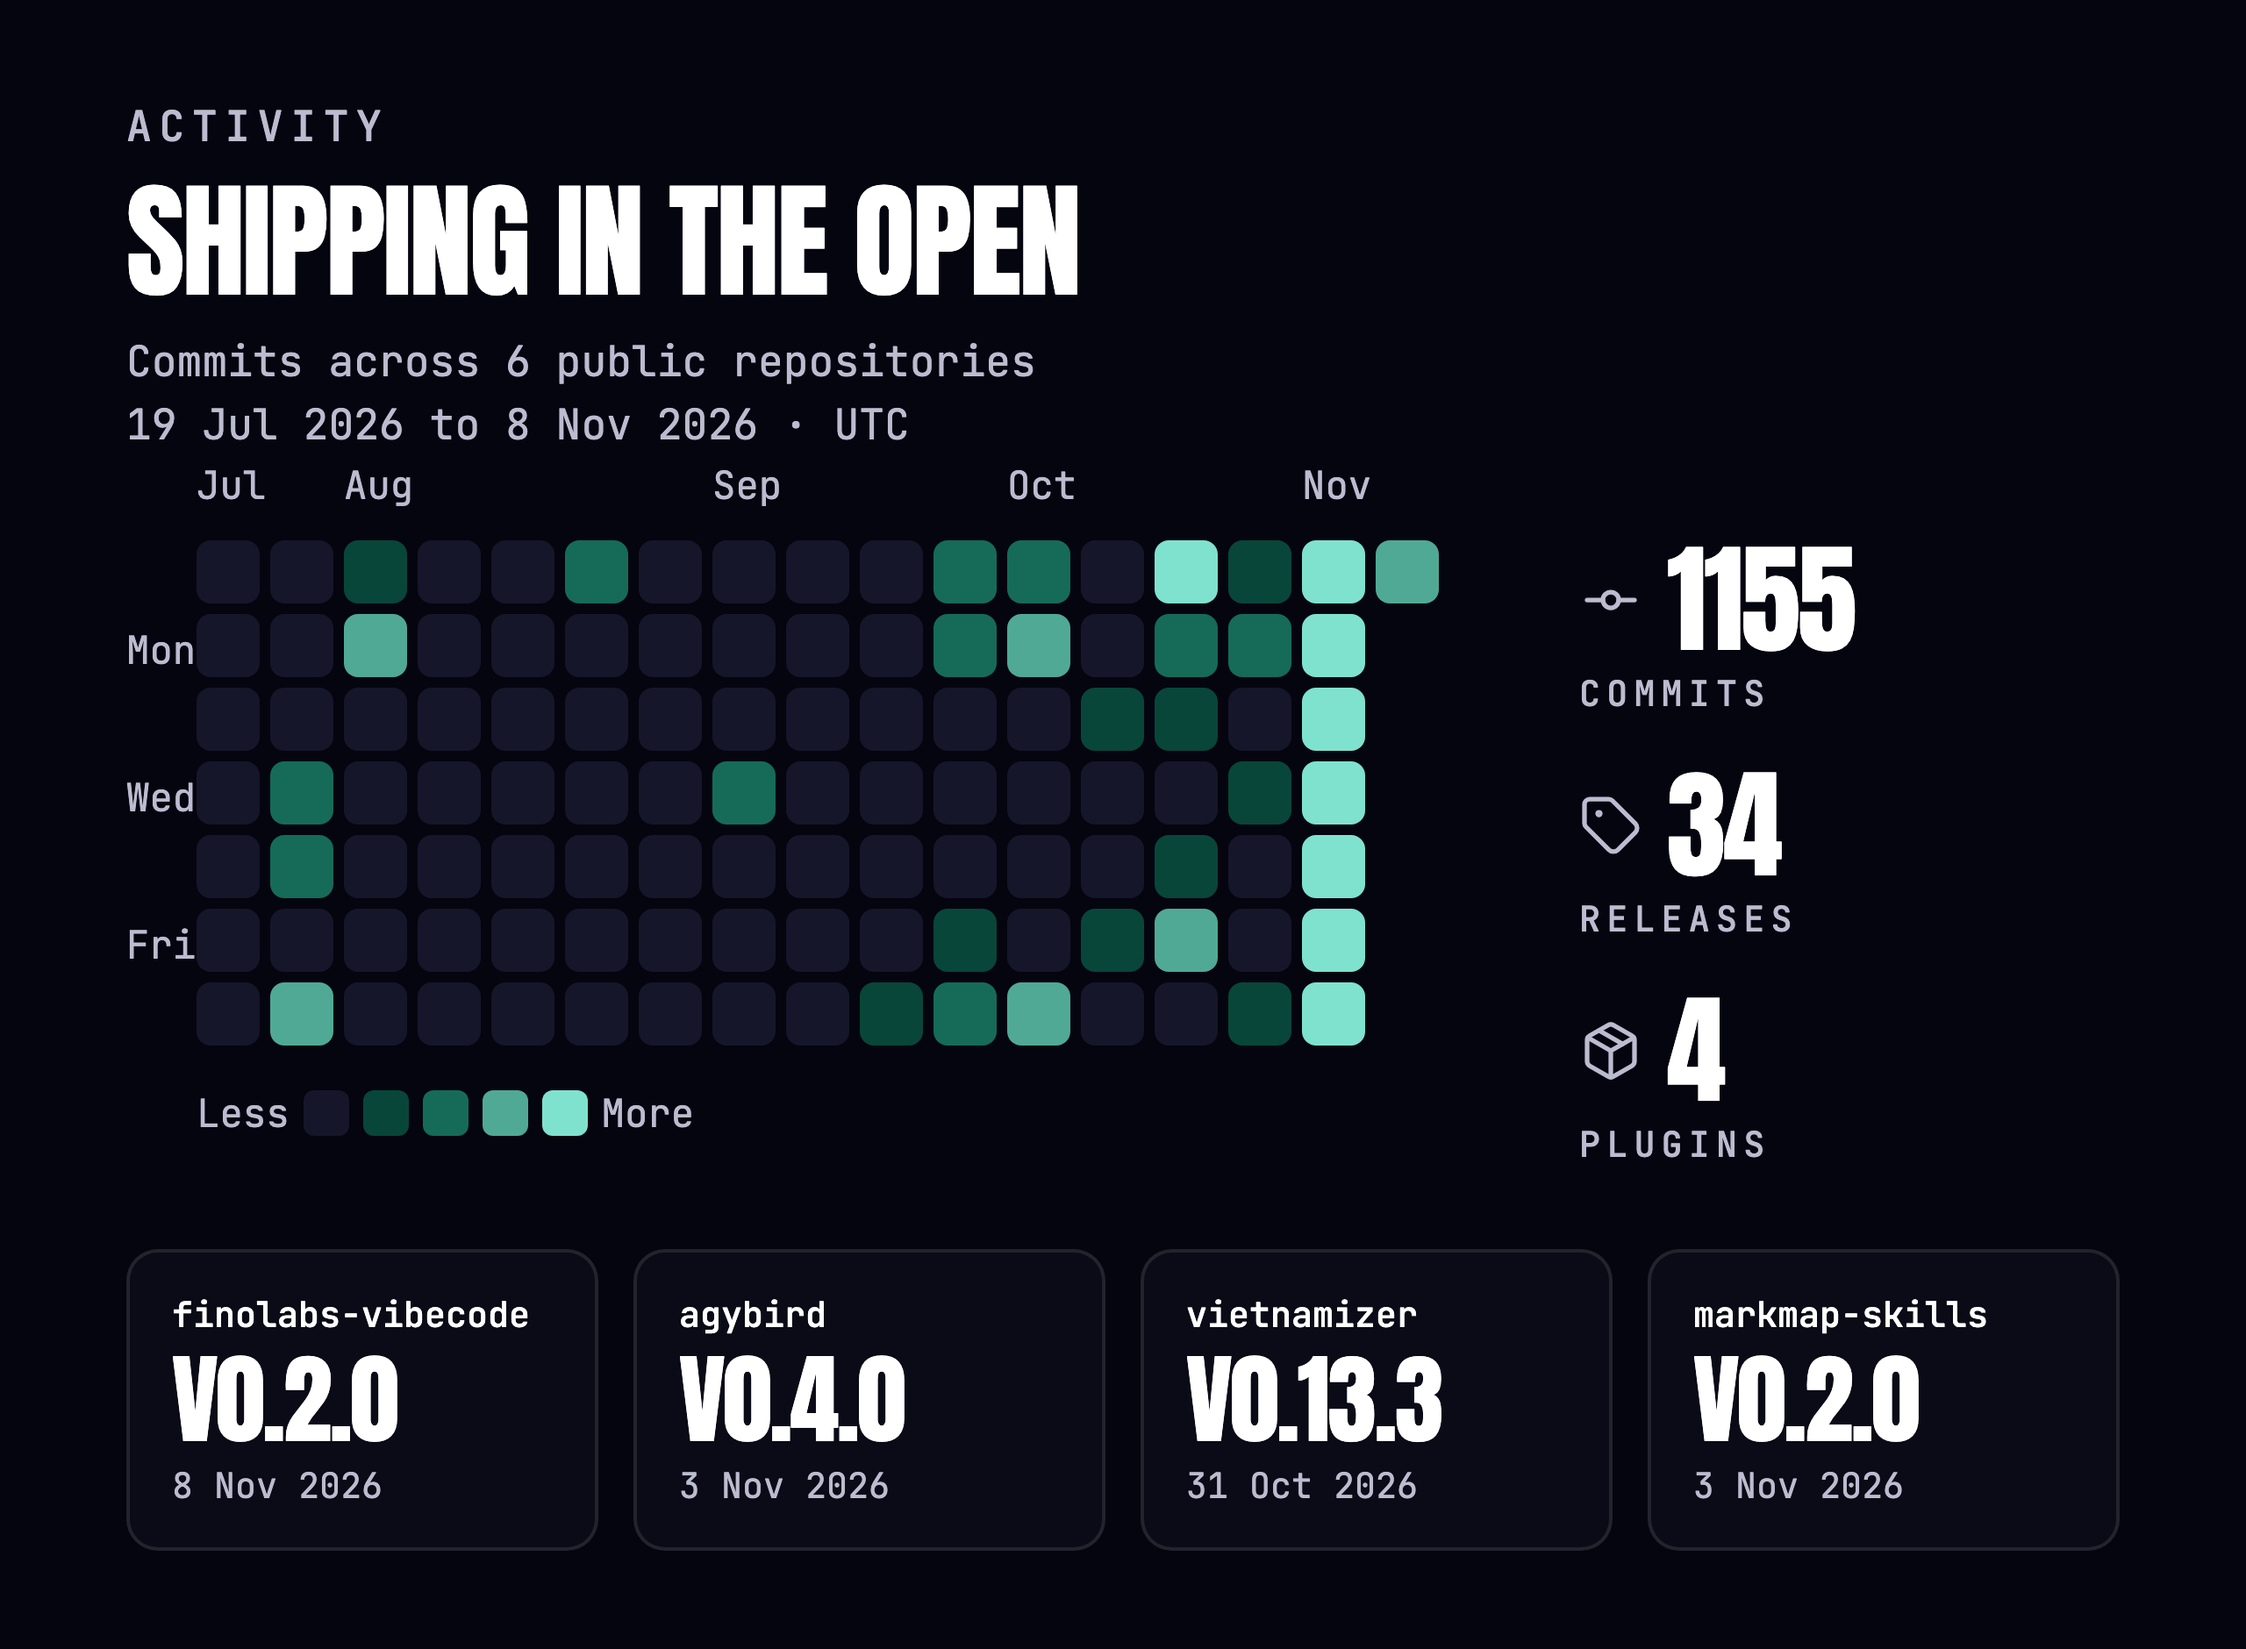
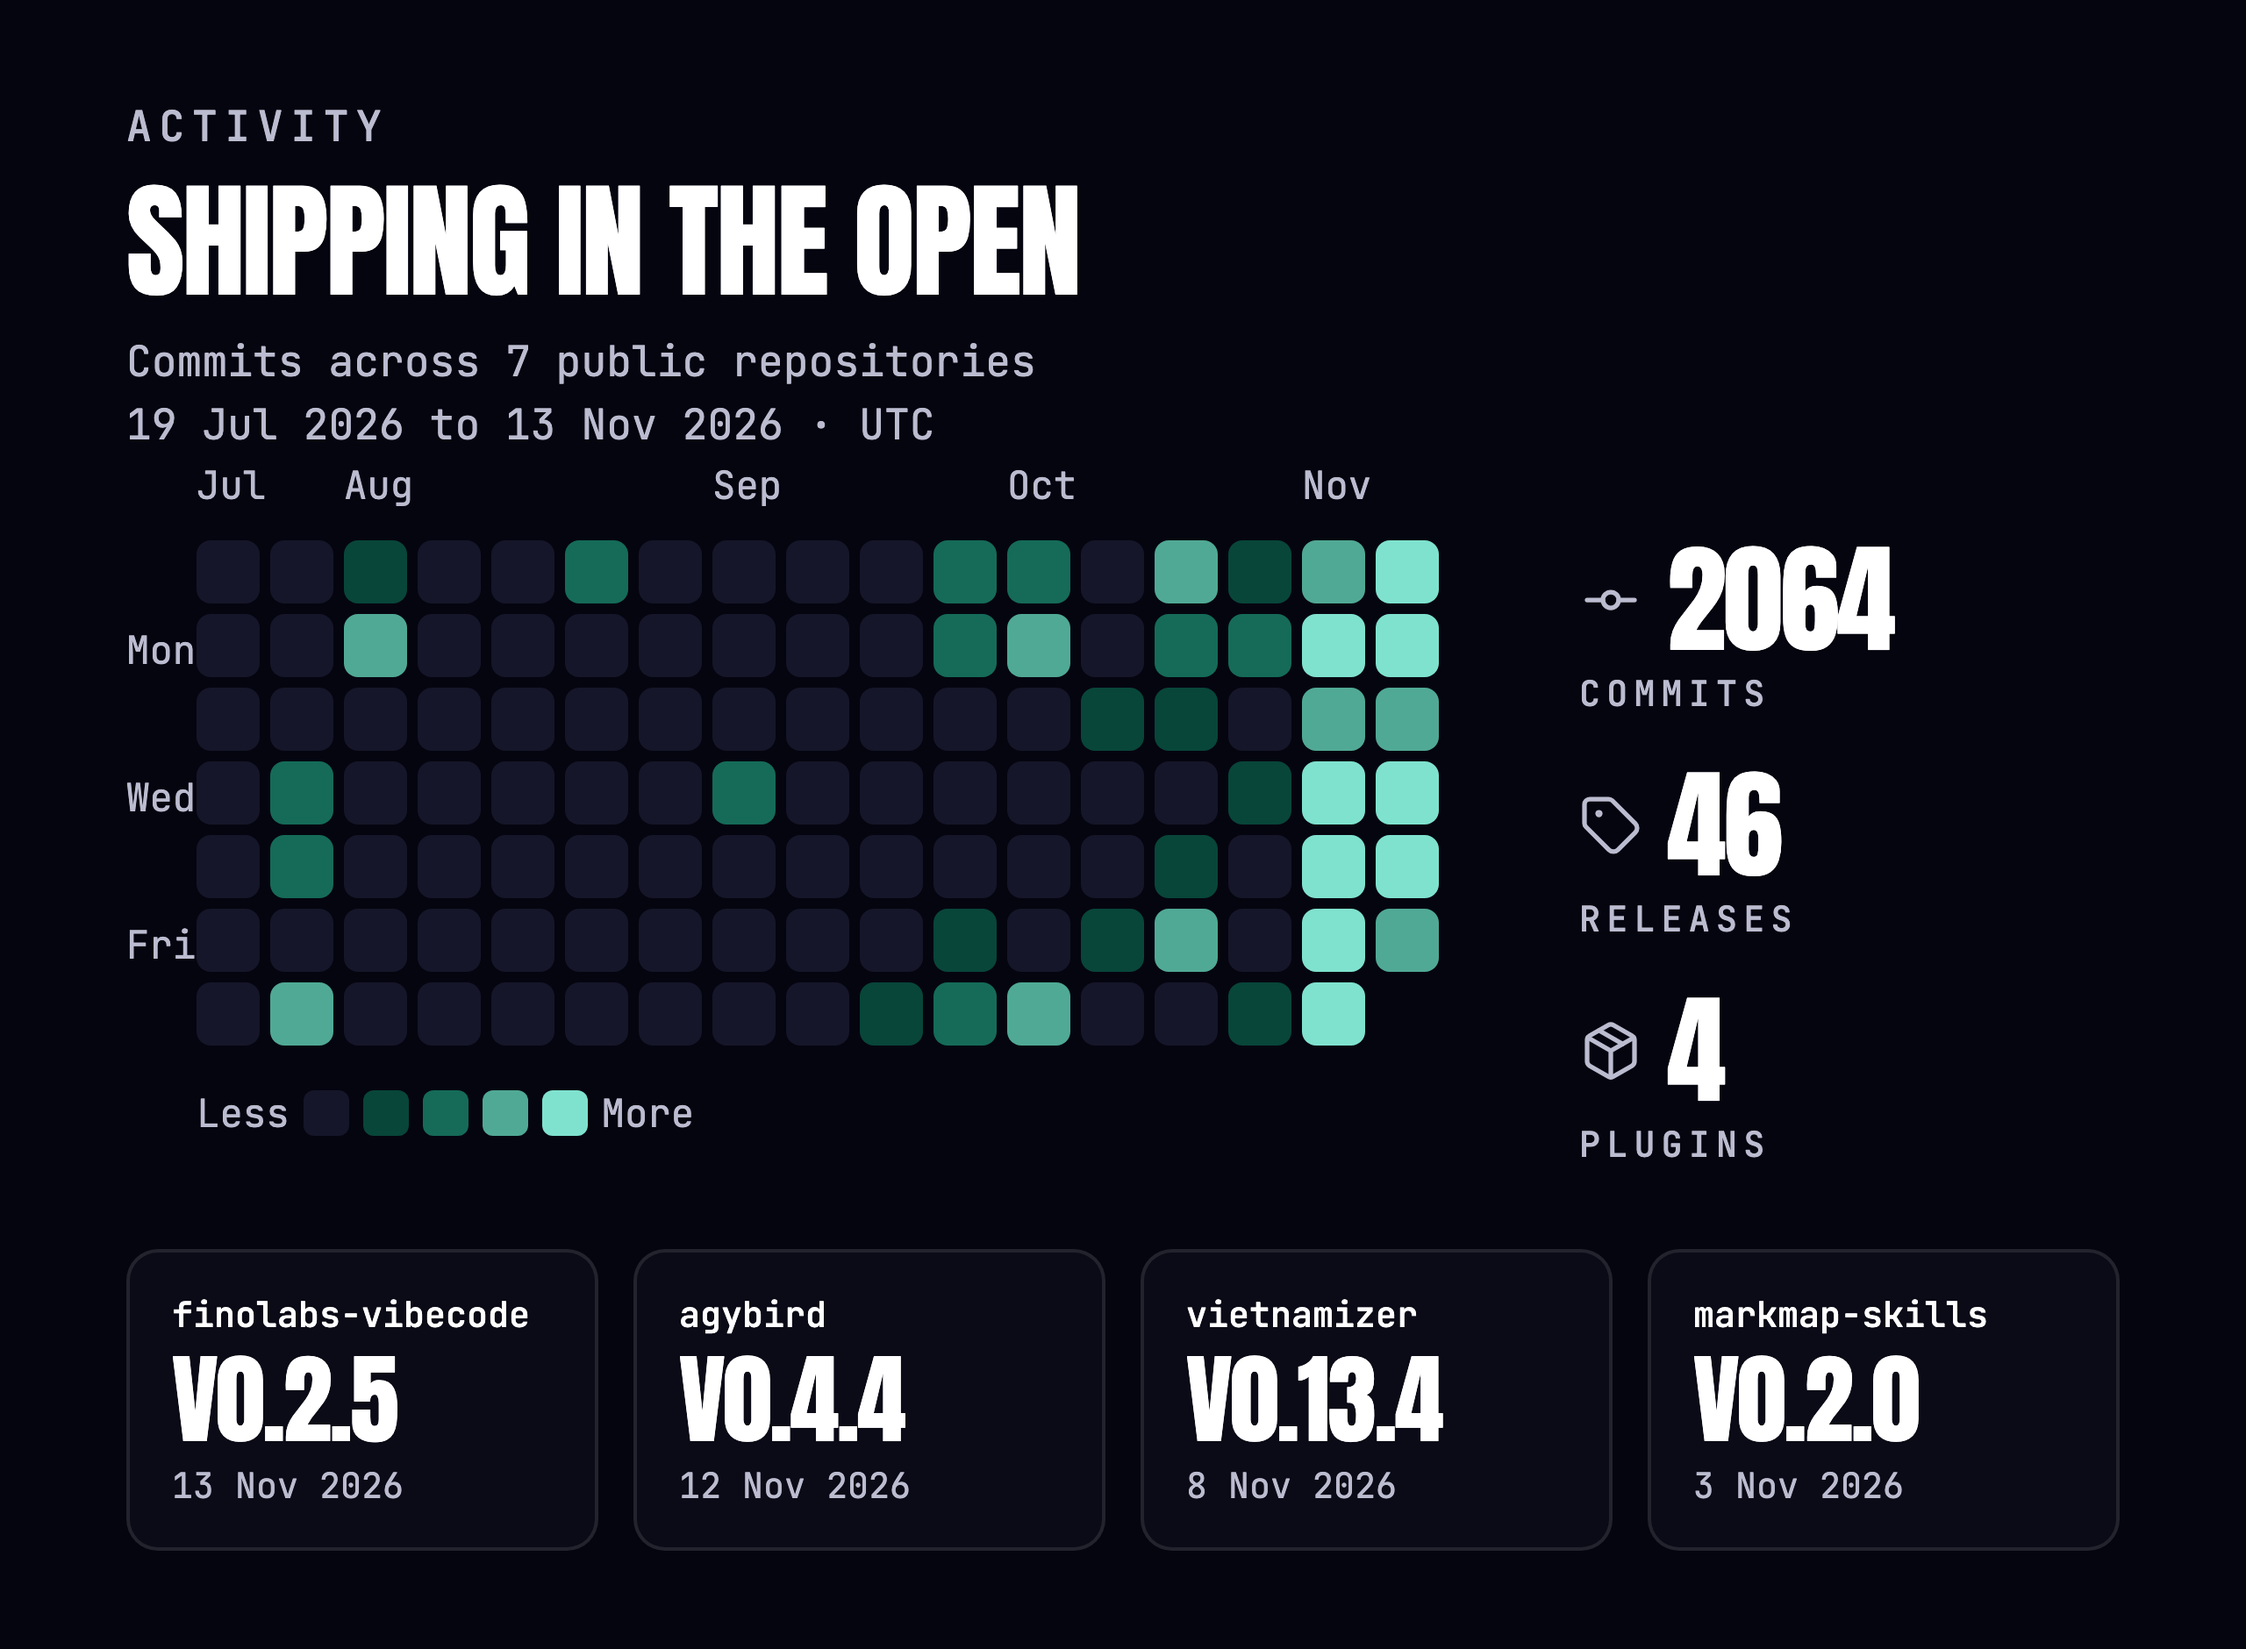
Refresh the activity images and match the vibecode catalog description
Rerun fetch-activity and render as of 13/11/2026 (2064 commits, 46
releases, 7 repositories, 4 plugins) and change the vibecode row from 17
to 25 skills so the table again equals the catalog.

diff --git a/profile/README.md b/profile/README.md
@@ -12,7 +12,7 @@ Plugins for AI coding agents. Every coding-agent plugin lives in one shared cata
 
 | Plugin | Description |
 | --- | --- |
-| [finolabs-vibecode](https://github.com/finolabs/finolabs-vibecode) | 17 skills and 3 agents (fnl-reviewer, fnl-security-reviewer, fnl-navigator) for review routing, verification, setup, run hygiene and quota on demand. |
+| [finolabs-vibecode](https://github.com/finolabs/finolabs-vibecode) | 25 skills and 3 agents (fnl-reviewer, fnl-security-reviewer, fnl-navigator) for review routing, verification, setup, run hygiene and quota on demand. |
 | [agybird](https://github.com/finolabs/agybird) | Delegate code work, image generation or editing, and general tasks to the official Google Antigravity CLI through an existing Gemini subscription. |
 | [vietnamizer](https://github.com/finolabs/vietnamizer) | Biên tập bản nháp, bài viết, README và bản dịch tiếng Việt cho tự nhiên hơn, giữ nguyên ý, dữ kiện, thuật ngữ, code và giọng người viết. |
 | [markmap-skills](https://github.com/finolabs/markmap-skills) | Markmap mindmaps for AI agents with strict cognitive structuring, delivered as clean .mindmap.md files and standalone HTML pages. |
